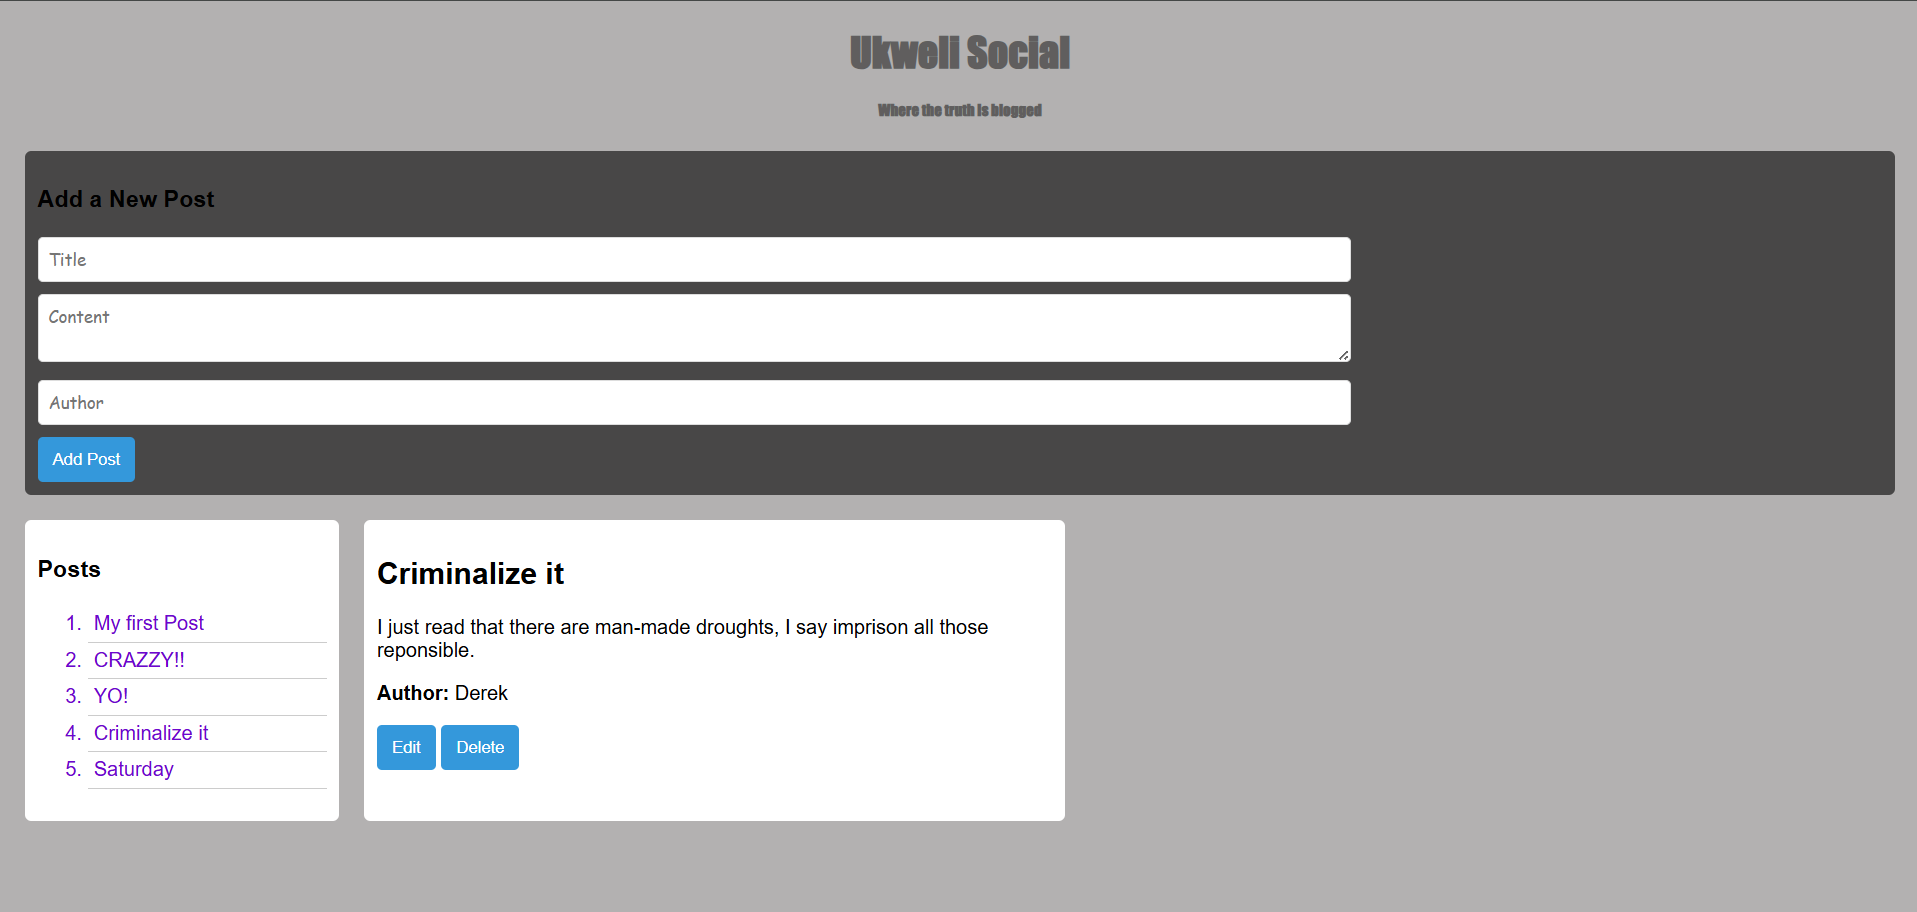
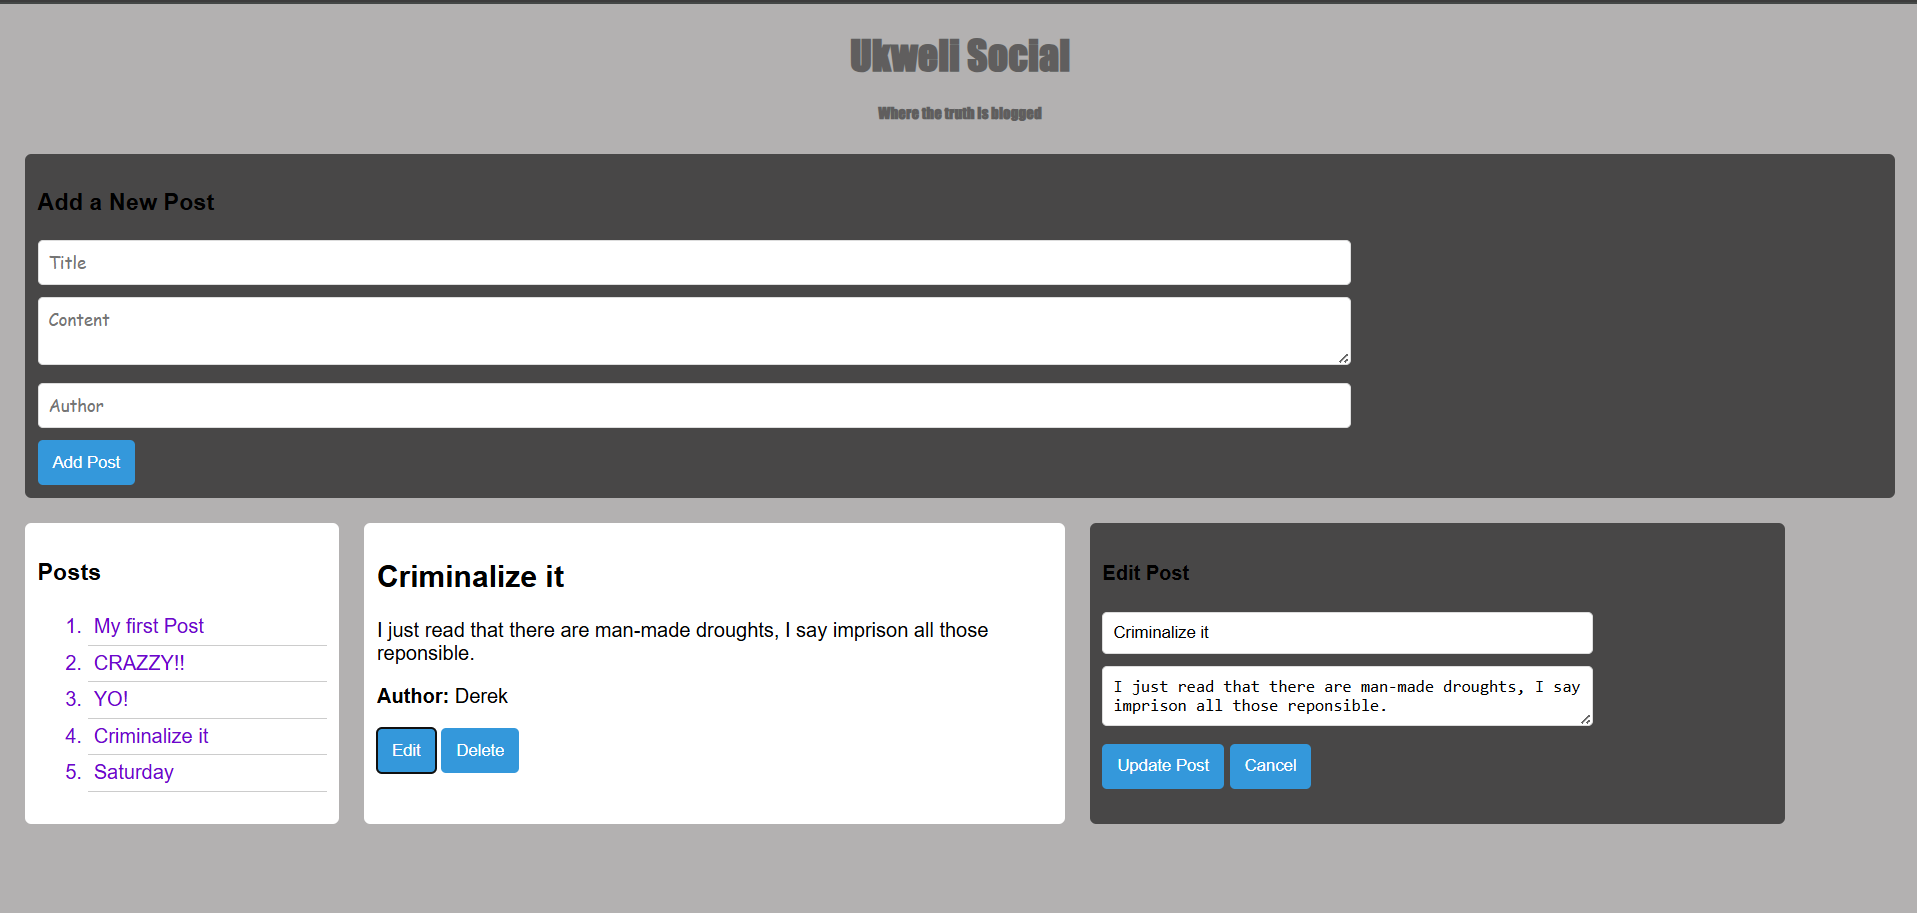
final touches

diff --git a/index.html b/index.html
@@ -21,7 +21,7 @@
     </div>
       </form>
     
-      <div id="container"> 
+      <div id="containertwo"> 
 
         <!-- Sidebar with all post titles --> 
     
@@ -53,6 +53,8 @@
 
   <form id="edit-post-form" class="hidden"> 
 
+    <div class="sizing">
+
     <h4>Edit Post</h4> 
 
     <input type="text" id="edit-title"placeholder="Title"  required /> 
@@ -63,8 +65,11 @@
 
     <button type="button" id="cancel-edit">Cancel</button> 
 
+    </div>
+
   </form> 
 
+</div>
 
     <script src="./src/index.js"></script> 
 
